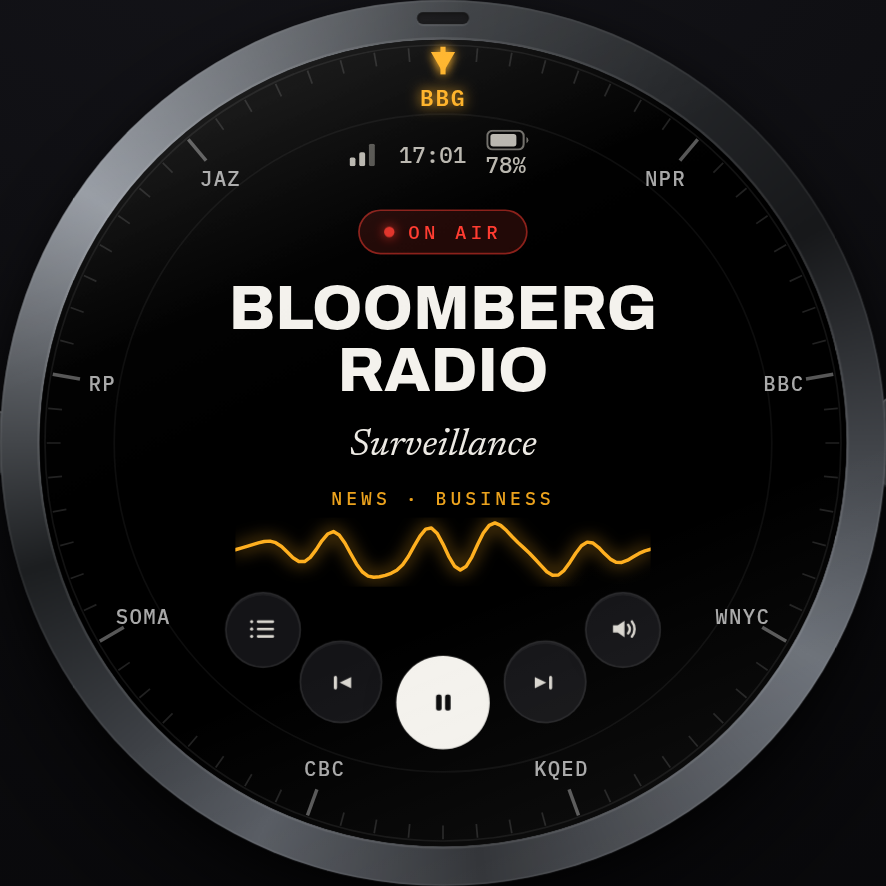
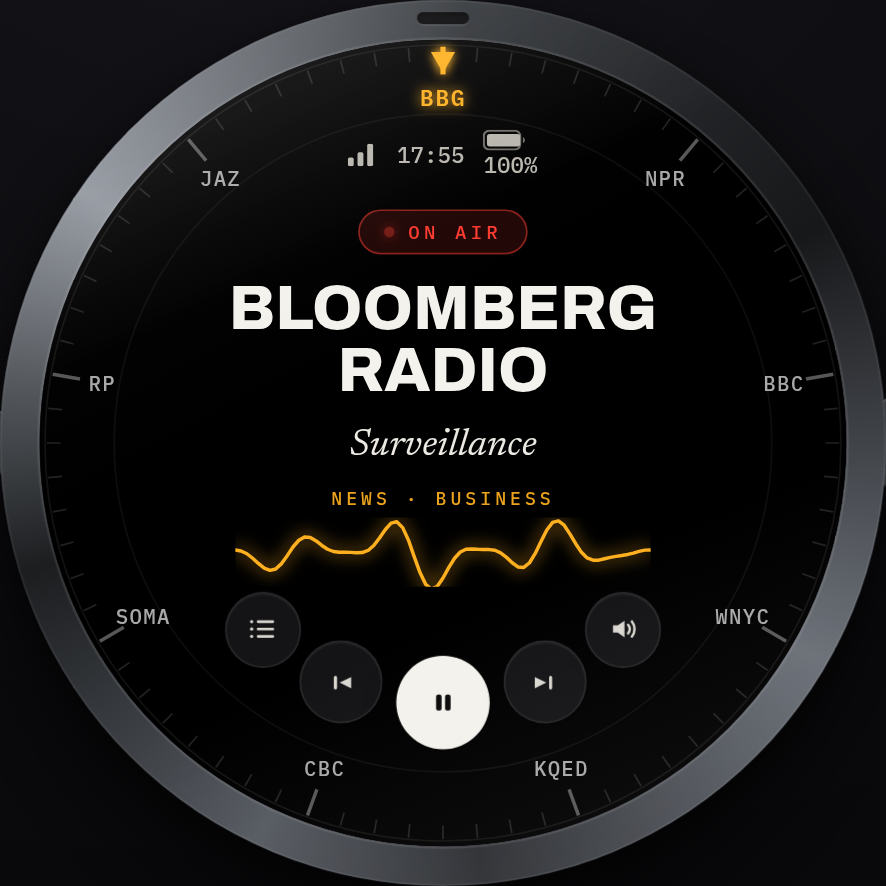
Live status: real battery % (AXP2101/XPowersLib) + RSSI signal bars, on device and in the prototype

diff --git a/prototype/004-signal/index.html b/prototype/004-signal/index.html
@@ -750,9 +750,9 @@ html[data-theme="broadsheet"] .chip.on { background: rgba(240,238,232,.08); }
                          style="vertical-align:-1px;margin-right:4px">
                       <rect x=".6" y=".6" width="21" height="10.8" rx="3"
                             fill="none" stroke="currentColor" stroke-width="1.2" opacity=".6"/>
-                      <rect x="2.4" y="2.4" width="15" height="7.2" rx="1.6" fill="currentColor"/>
+                      <rect id="battFill" x="2.4" y="2.4" width="15" height="7.2" rx="1.6" fill="currentColor"/>
                       <path d="M23.2 4.2v3.6a2 2 0 0 0 0-3.6z" fill="currentColor" opacity=".6"/>
-                    </svg>78%</span>
+                    </svg><span id="battPct">--%</span></span>
                 </div>
 
                 <div class="tally" id="tally"><i></i><span id="tallyTxt">ON AIR</span></div>
@@ -1357,7 +1357,41 @@ function tickClock() {
   $('#sbDate').textContent =
     d.toLocaleDateString('en-US', { weekday:'short' }) + ' · ' +
     d.toLocaleDateString('en-US', { month:'short', day:'numeric' });
+  applyStat();
 }
+
+/* live status — real host battery % + the mock network's signal level.
+   Mirrors the firmware (AXP2101 voltage % / WiFi.RSSI bars); no hardcodes. */
+let battPctLive = null;
+function applyBatt(p) {
+  const t = $('#battPct'), f = $('#battFill');
+  if (!t || !f) return;
+  if (p === null || p === undefined || isNaN(p)) {
+    t.textContent = '--%'; f.setAttribute('width', 0); return;
+  }
+  p = Math.max(0, Math.min(100, Math.round(p)));
+  t.textContent = p + '%';
+  f.setAttribute('width', Math.max(p > 0 ? 1 : 0, 19.2 * p / 100).toFixed(1));
+}
+function wifiLevel() {
+  if (st.wifiPow !== 'on') return -1;
+  if (!st.wifiSsid) return 0;
+  const n = NETS.find(x => x.ssid === st.wifiSsid);
+  return n ? (n.lvl || 2) : 2;
+}
+function applyWifi() {
+  const lvl = wifiLevel(), svg = $('#wifiIcon');
+  if (!svg) return;
+  [...svg.querySelectorAll('rect')].forEach((r, i) =>
+    r.setAttribute('opacity', lvl < 0 ? 0.3 : (i < lvl ? 1 : 0.45)));
+}
+function applyStat() { applyBatt(battPctLive); applyWifi(); }
+if (navigator.getBattery) {
+  navigator.getBattery().then(b => {
+    const u = () => { battPctLive = b.level * 100; applyBatt(battPctLive); };
+    u(); b.addEventListener('levelchange', u); b.addEventListener('chargingchange', u);
+  }).catch(() => applyBatt(null));
+} else applyBatt(null);
 let wt = 0, wsmooth = 0;
 function waveLoop() {
   const el = $('#waveLine');

diff --git a/firmware/ESP32S3_WEB_RADIO/sig_ui.cpp b/firmware/ESP32S3_WEB_RADIO/sig_ui.cpp
@@ -2,6 +2,10 @@
  * Layout numbers come 1:1 from the 004-signal prototype CSS. */
 #include "sig_ui.h"
 #include "sig/signal_fonts_data.h"   // glyph data (sig_ui.cpp is the only TU with data)
+#include "config.h"                  // TOUCH_SDA/SCL + XPOWERS_CHIP_AXP2101
+#include "XPowersLib.h"              // AXP2101 battery monitor (chip typed by config.h)
+#include <WiFi.h>                    // RSSI for the signal bars
+#include <Wire.h>
 #include <Preferences.h>
 #include <esp_heap_caps.h>
 #include <math.h>
@@ -225,9 +229,14 @@ void SigUI::icWifiBars(float x, float y, uint16_t c, float thirdA) {
   }
   cv->fillRoundRect((int)(x + 11.2f), (int)y, 3, 13, 1, cc);
 }
-void SigUI::icBattery(float x, float y, uint16_t c) {
+void SigUI::icBattery(float x, float y, uint16_t c, int pct) {
   cv->drawRoundRect((int)(x + .6f), (int)(y + .6f), 21, 11, 3, c);
-  cv->fillRoundRect((int)(x + 2.4f), (int)(y + 2.4f), 15, 7, 2, c);
+  if (pct > 0) {                    // fill = real charge (0/unknown = empty)
+    float wf = 19.2f * pct / 100.0f;
+    if (wf < 1.0f) wf = 1.0f;
+    if (wf > 19.2f) wf = 19.2f;
+    cv->fillRoundRect((int)(x + 2.4f), (int)(y + 2.4f), (int)(wf + .5f), 7, 2, c);
+  }
   cv->fillTriangle((int)(x + 23.2f), (int)(y + 4.2f), (int)(x + 23.2f),
                    (int)(y + 7.8f), (int)(x + 25), (int)(y + 6), c);
 }
@@ -418,6 +427,68 @@ void SigUI::saveState() {
   }
 }
 
+/* =================================================================== */
+/* live status: AXP2101 battery % + Wi-Fi RSSI bars (status line).     */
+/* Values are real hardware readings — never literals (old hardcode:   */
+/* "78%" + always-full bars). Refreshed once a second by tickTimers.   */
+/* =================================================================== */
+static XPowersPMU g_pmu;
+
+static int battFromMv(int mv) {
+  static const int16_t mvT[6] = {3300, 3500, 3700, 3850, 4000, 4200};
+  static const int8_t  pcT[6] = {  0,   12,   42,   62,   82,  100};
+  if (mv <= mvT[0]) return 0;
+  if (mv >= mvT[5]) return 100;
+  for (int i = 1; i < 6; i++)
+    if (mv <= mvT[i])
+      return pcT[i - 1] + (int)((long)(mv - mvT[i - 1]) *
+                                (pcT[i] - pcT[i - 1]) / (mvT[i] - mvT[i - 1]));
+  return 100;
+}
+
+bool SigUI::refreshStatus() {
+  if (!pmuInit) {                       // one-shot probe (before touch task)
+    pmuInit = g_pmu.begin(Wire, AXP2101_SLAVE_ADDRESS,
+                          TOUCH_SDA, TOUCH_SCL) ? 1 : 2;
+    if (pmuInit == 1) {                 // vendor adcOn() (Waveshare 01_PMU example):
+      g_pmu.enableTemperatureMeasure();
+      g_pmu.enableBattDetection();
+      g_pmu.enableVbusVoltageMeasure();
+      g_pmu.enableBattVoltageMeasure();
+      g_pmu.enableSystemVoltageMeasure();
+    }
+    Serial.printf("[pmu] AXP2101 %s\n",
+                  pmuInit == 1 ? "online" : "offline - battery unknown");
+  }
+  int8_t pct = -1;
+  if (pmuInit == 1 && g_pmu.isBatteryConnect()) {
+    int p = g_pmu.getBatteryPercent();   // chip-computed % (reg 0xA4)
+    if (p < 0 && g_pmu.getBattVoltage() > 0) p = battFromMv(g_pmu.getBattVoltage());
+    pct = (int8_t)(p > 100 ? 100 : p);
+  }
+  int8_t lvl;
+  if (!wcPowered())        lvl = -1;    // radio off            -> dim icon
+  else if (!wcConnected()) lvl = 0;     // on, waiting for link -> hint bars
+  else {
+    int r = WiFi.RSSI();
+    lvl = r >= -55 ? 3 : r >= -70 ? 2 : 1;
+  }
+  bool chg = (pct != battPct) || (lvl != sigLvl);
+  if (chg) {
+    battPct = pct; sigLvl = lvl;
+    Serial.printf("[batt] %d%% bars %d rssi %d | st1=0x%02X pct=%d "
+                  "v=%d,%d adc=0x%02X det=0x%02X\n",
+                  pct, lvl, wcConnected() ? (int)WiFi.RSSI() : 0,
+                  pmuInit == 1 ? g_pmu.readRegister(XPOWERS_AXP2101_STATUS1) : -1,
+                  pmuInit == 1 ? g_pmu.readRegister(XPOWERS_AXP2101_BAT_PERCENT_DATA) : -1,
+                  pmuInit == 1 ? g_pmu.readRegister(XPOWERS_AXP2101_ADC_DATA_RELUST0) : -1,
+                  pmuInit == 1 ? g_pmu.readRegister(XPOWERS_AXP2101_ADC_DATA_RELUST1) : -1,
+                  pmuInit == 1 ? g_pmu.readRegister(XPOWERS_AXP2101_ADC_CHANNEL_CTRL) : -1,
+                  pmuInit == 1 ? g_pmu.readRegister(XPOWERS_AXP2101_BAT_DET_CTRL) : -1);
+  }
+  return chg;
+}
+
 void SigUI::begin(DisplayUI* d, StreamPlayer* p, StationManager* s) {
   disp = d; pl = p; sm = s;
   g = disp->getGfx();
@@ -466,6 +537,7 @@ void SigUI::begin(DisplayUI* d, StreamPlayer* p, StationManager* s) {
   bootT0 = millis();
   view = V_BOOT;
   dirty = true;
+  refreshStatus();                 // battery + signal before first paint
   Serial.printf("[ui] begin done\n"); Serial.flush();
   touch.startTask();
   Serial.printf("[ui] touch task started\n"); Serial.flush();
@@ -575,6 +647,7 @@ void SigUI::tickTimers() {
   static uint32_t lastClock = 0;
   if (now - lastClock >= 1000) {
     lastClock = now;
+    refreshStatus();               // battery % + RSSI bars (real readings)
     if (view == V_NOW || view == V_STANDBY) dirty = true;
   }
 }
@@ -667,10 +740,10 @@ void SigUI::console() {
         Serial.printf("[P] pong\n");
         Serial.printf(
             "[state] view=%u cur=%d (%s) vol=%u bright=%.2f play=%d "
-            "conn=%d ovl=%u wifi=%d/%d ssid=%s heap=%u\n",
+            "conn=%d ovl=%u wifi=%d/%d batt=%d%% bars=%d pmu=%u ssid=%s heap=%u\n",
             view, cur, SD[cur].code, vol, bright, playing, connecting, ovl,
-            wcPowered(), wcConnected(), wcSsid().c_str(),
-            (unsigned)ESP.getFreeHeap());
+            wcPowered(), wcConnected(), battPct, sigLvl, pmuInit,
+            wcSsid().c_str(), (unsigned)ESP.getFreeHeap());
         break;
       default:
         break;   // ignore (line noise / newlines)

diff --git a/firmware/ESP32S3_WEB_RADIO/sig_paint.cpp b/firmware/ESP32S3_WEB_RADIO/sig_paint.cpp
@@ -144,25 +144,30 @@ void SigUI::paintDial(bool full) {
 void SigUI::paintNow() {
   /* ---- status line (y54 h24, gap 11, centered) ---- */
   String hm = disp->getCurrentTime();
-  char batt[8] = "78%";
+  char batt[8];
+  if (battPct >= 0) snprintf(batt, sizeof(batt), "%d%%", battPct);
+  else              strlcpy(batt, "--%", sizeof(batt));
   float ls = 13 * 0.0f;                    /* no tracking on status */
   float wc = tWidth(F_MONO_500_13, hm.c_str(), ls);
   float wb = tWidth(F_MONO_500_13, batt, ls);
   float total = 17 + 11 + wc + 11 + (25 + 4 + wb);
   float x = (466 - total) / 2;
   float cy = 54 + 12;
-  /* wifi icon: 3 bars, third always .45, whole icon .3 when off */
-  uint8_t a1 = wcPowered() ? 15 : 5;
-  uint16_t b1 = blendC(0, C_STATUS, a1);
-  uint16_t b3 = blendC(0, C_STATUS, (uint8_t)(a1 * 0.45f));
-  cv->fillRoundRect((int)x, (int)(cy - 6.5f + 8), 3, 5, 1, b1);
-  cv->fillRoundRect((int)(x + 5.6f), (int)(cy - 6.5f + 5), 3, 8, 1, b1);
-  cv->fillRoundRect((int)(x + 11.2f), (int)(cy - 6.5f), 3, 13, 1, b3);
+  /* wifi icon: real signal level (sigLvl: -1 off · 0 no link · 1..3 bars).
+   * Bars below the level are full, the rest keep the .45 hint look. */
+  uint16_t barA[3];
+  for (int i = 0; i < 3; i++) {
+    uint8_t a = (sigLvl < 0) ? 5 : (i < sigLvl ? 15 : (uint8_t)(15 * 0.45f));
+    barA[i] = blendC(0, C_STATUS, a);
+  }
+  cv->fillRoundRect((int)x, (int)(cy - 6.5f + 8), 3, 5, 1, barA[0]);
+  cv->fillRoundRect((int)(x + 5.6f), (int)(cy - 6.5f + 5), 3, 8, 1, barA[1]);
+  cv->fillRoundRect((int)(x + 11.2f), (int)(cy - 6.5f), 3, 13, 1, barA[2]);
   float xc = x + 17 + 11;
   tDraw(F_MONO_500_13, hm.c_str(), xc, wc, cy - 13 / 2.0f, C_STATUS, 0,
         ls, 0, 1);
   float xb = xc + wc + 11;
-  icBattery(xb, cy - 6, C_STATUS);
+  icBattery(xb, cy - 6, C_STATUS, battPct);
   tDraw(F_MONO_500_13, batt, xb + 25 + 4, wb, cy - 13 / 2.0f, C_STATUS, 0,
         ls, 0, 1);
 

diff --git a/firmware/ESP32S3_WEB_RADIO/sig_ui.h b/firmware/ESP32S3_WEB_RADIO/sig_ui.h
@@ -94,6 +94,7 @@ private:
   void dumpFrame();                   // 466x466 PPM over USB CDC
   void paintView();               // current view only (no dial)
   void tickTimers();
+  bool refreshStatus();            // read AXP2101 % + RSSI bars (1 s)
   void onTouch();
   void setView(uint8_t v);
   void setOvl(uint8_t o);
@@ -170,7 +171,7 @@ private:
 
   /* vector icons (exact SVG geometry from the prototype markup) */
   void icWifiBars(float x, float y, uint16_t c, float thirdA = 15);
-  void icBattery(float x, float y, uint16_t c);
+  void icBattery(float x, float y, uint16_t c, int pct = -1);
   void icList(float cx, float cy, uint16_t c);
   void icPrev(float cx, float cy, uint16_t c);
   void icPlay(float cx, float cy, uint16_t c);
@@ -212,6 +213,10 @@ private:
   float viewShiftY = 0;                          // vertical swipe follow
   bool playing = false, connecting = false;
   uint32_t conT0 = 0; bool conForWifi = false;
+  /* live status line: battery % (AXP2101) + Wi-Fi bars (RSSI) */
+  int8_t battPct = -1;                // battery percent · -1 = unknown
+  int8_t sigLvl = -2;                 // bars · -2 unread, -1 off, 0 no link, 1..3
+  uint8_t pmuInit = 0;                // 0 not tried · 1 online · 2 absent
   uint8_t vol = 62; float bright = 1.0f;
   uint8_t sleepIdx = 0;                          // 0 OFF 1=15 2=30 3=60
   bool sleepArmed = false; uint32_t sleepT0 = 0;

diff --git a/README.md b/README.md
@@ -29,6 +29,12 @@ signal-internet-radio/
 
 ## 1. The product
 
+The status line on the now-playing screen shows **real hardware values**: battery
+percentage from the on-board AXP2101 PMIC (XPowersLib, chip-computed %) and Wi-Fi
+signal bars from `WiFi.RSSI()` (3 bars >= -55 dBm, 2 >= -70, else 1; dimmed while
+the radio is off). With no battery connected to the PMIC the display honestly reads
+`--%`.
+
 **Screens** (all inside the 466×466 safe circle):
 
 - **Now playing** — the "watchface": station ring dial with 9 labelled ticks
@@ -106,7 +112,8 @@ arduino-cli core install esp32:esp32
 # libraries (exact versions this project was built against)
 arduino-cli lib install "ESP32-audioI2S@4.0.0" \
                         "GFX Library for Arduino@1.6.7" \
-                        "ArduinoJson@7.4.3"
+                        "ArduinoJson@7.4.3" \
+                        "XPowersLib@0.3.3"
 ```
 
 ### 3.2 Build
